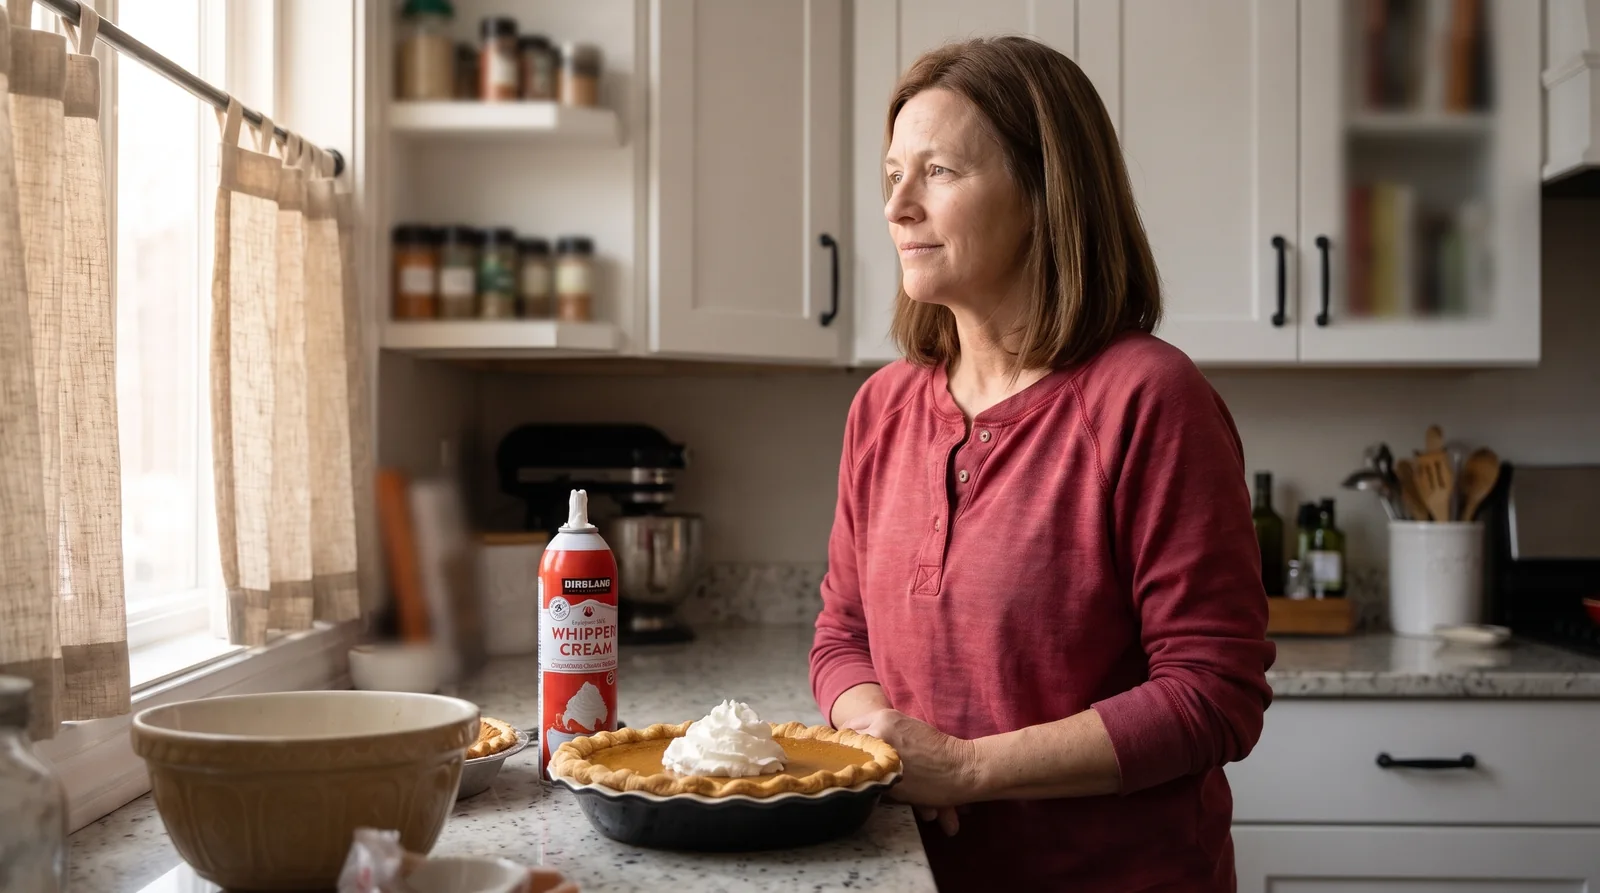
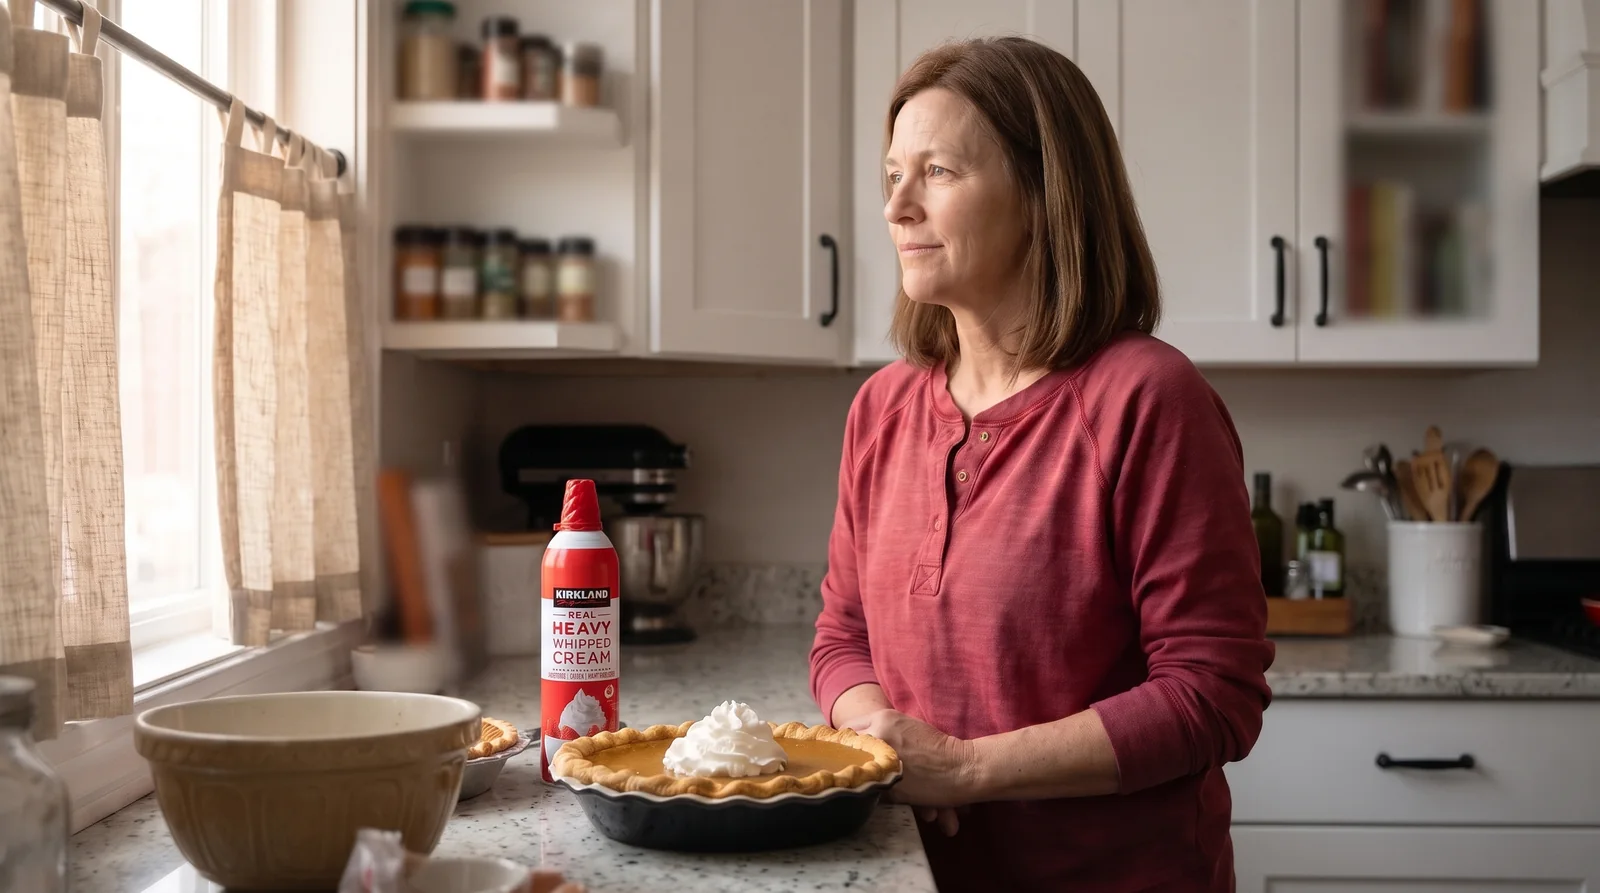
photos: costco-whipped-cream-recall recheck fixes

diff --git a/blog-pipeline/photos-completed/costco-whipped-cream-recall.md b/blog-pipeline/photos-completed/costco-whipped-cream-recall.md
@@ -36,3 +36,6 @@ note: "White shaker kitchen with cafe curtains, woman about 52 in a cranberry he
 - image_url: https://scan.ismyhometoxic.com/blog-images/costcowhipp-freedom-v1.webp
 - placement: final image before the closing scan CTA
 - completed: 2026-11-19T15:41:00
+
+## Recheck (Photo Claude) 2026-11-20
+Recheck: Turning point can relabelled correctly; villain fine print softened.
